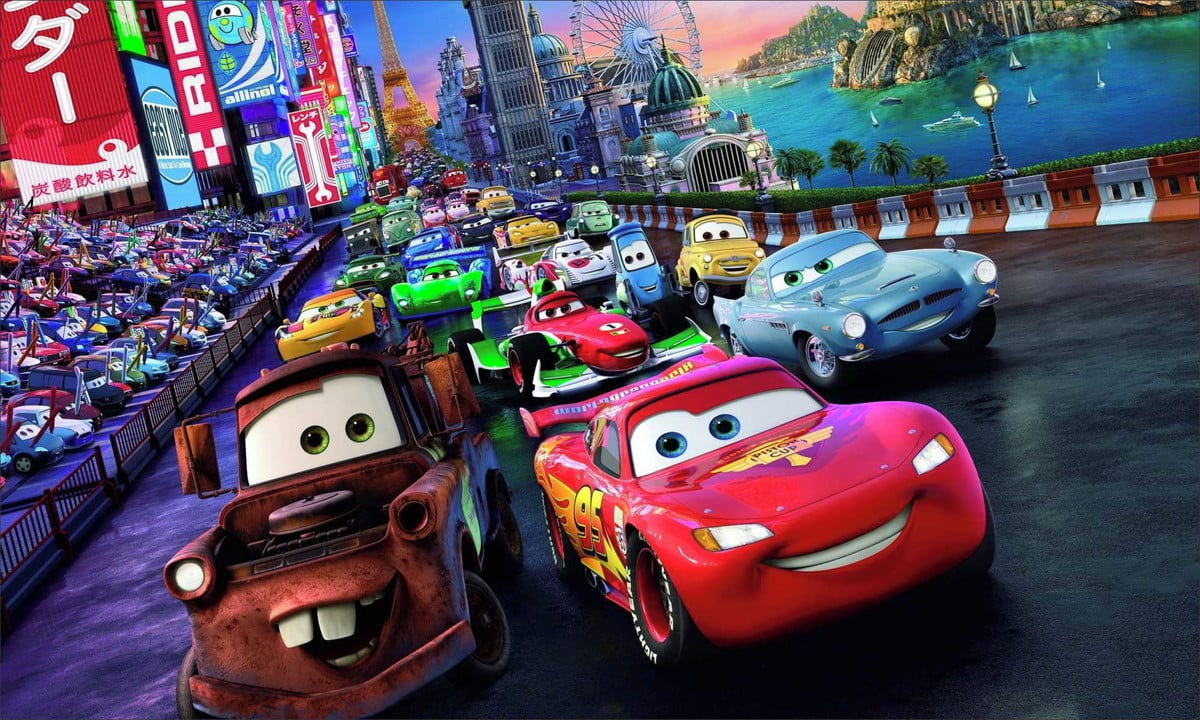
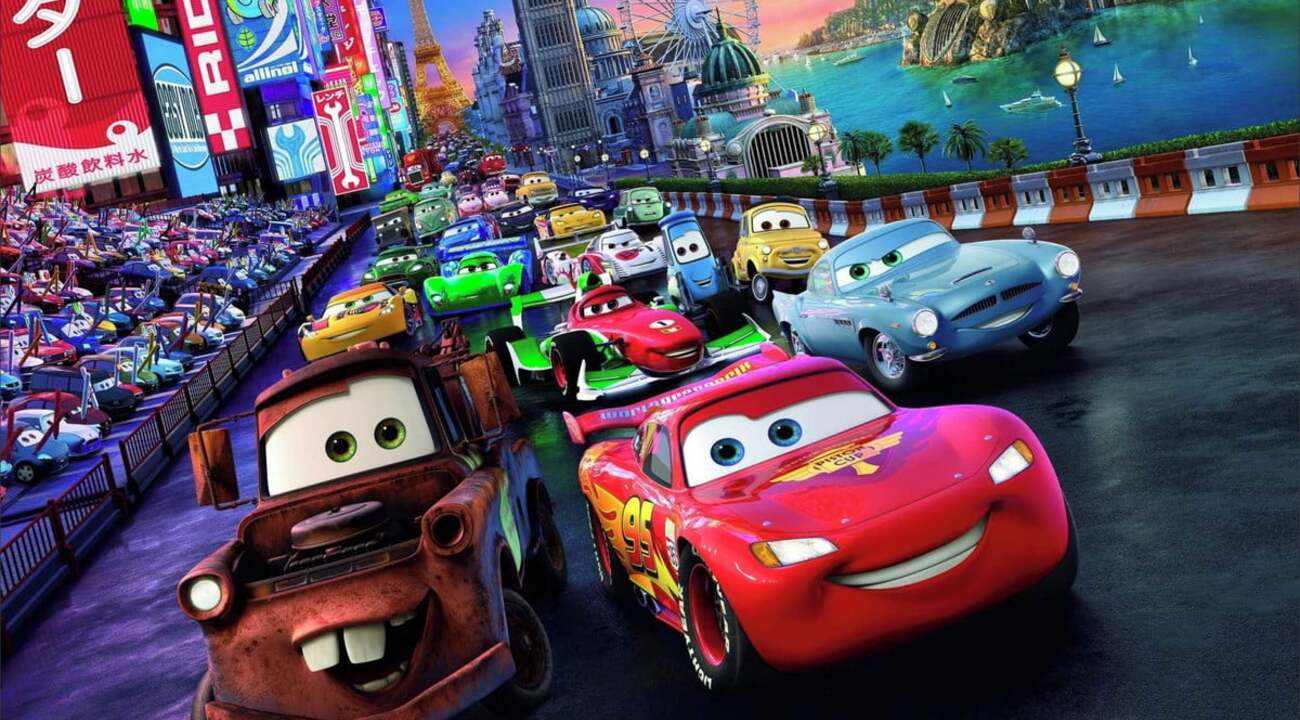
Carousel

diff --git a/public/index.html b/public/index.html
@@ -1,21 +1,24 @@
 <!DOCTYPE html>
 <html lang="en">
-  <head>
-    <meta charset="utf-8" />
-    <link rel="icon" href="%PUBLIC_URL%/favicon.ico" />
-    <meta name="viewport" content="width=device-width, initial-scale=1" />
-    <meta name="theme-color" content="#000000" />
-    <meta
-      name="description"
-      content="Web site created using create-react-app"
-    />
-    <link rel="apple-touch-icon" href="%PUBLIC_URL%/logo192.png" />
-    <!--
+
+<head>
+  <meta charset="utf-8" />
+  <link rel="icon" href="%PUBLIC_URL%/favicon.ico" />
+  <meta name="viewport" content="width=device-width, initial-scale=1" />
+  <meta name="theme-color" content="#000000" />
+  <meta name="description" content="Web site created using create-react-app" />
+  <link rel="apple-touch-icon" href="%PUBLIC_URL%/logo192.png" />
+  <!--
       manifest.json provides metadata used when your web app is installed on a
       user's mobile device or desktop. See https://developers.google.com/web/fundamentals/web-app-manifest/
     -->
-    <link rel="manifest" href="%PUBLIC_URL%/manifest.json" />
-    <!--
+  <link rel="manifest" href="%PUBLIC_URL%/manifest.json" />
+  <link rel="stylesheet" type="text/css" charset="UTF-8"
+    href="https://cdnjs.cloudflare.com/ajax/libs/slick-carousel/1.6.0/slick.min.css" />
+  <link rel="stylesheet" type="text/css"
+    href="https://cdnjs.cloudflare.com/ajax/libs/slick-carousel/1.6.0/slick-theme.min.css" />
+    
+  <!--
       Notice the use of %PUBLIC_URL% in the tags above.
       It will be replaced with the URL of the `public` folder during the build.
       Only files inside the `public` folder can be referenced from the HTML.
@@ -24,13 +27,14 @@
       work correctly both with client-side routing and a non-root public URL.
       Learn how to configure a non-root public URL by running `npm run build`.
     -->
-    <title>React App</title>
-    <script src="https://cdn.jsdelivr.net/npm/react-fontawesome@1.7.1/lib/index.min.js"></script>
-  </head>
-  <body>
-    <noscript>You need to enable JavaScript to run this app.</noscript>
-    <div id="root"></div>
-    <!--
+  <title>React App</title>
+  <script src="https://cdn.jsdelivr.net/npm/react-fontawesome@1.7.1/lib/index.min.js"></script>
+</head>
+
+<body>
+  <noscript>You need to enable JavaScript to run this app.</noscript>
+  <div id="root"></div>
+  <!--
       This HTML file is a template.
       If you open it directly in the browser, you will see an empty page.
 
@@ -40,5 +44,6 @@
       To begin the development, run `npm start` or `yarn start`.
       To create a production bundle, use `npm run build` or `yarn build`.
     -->
-  </body>
+</body>
+
 </html>

diff --git a/src/pages/HomePage.js b/src/pages/HomePage.js
@@ -1,34 +1,33 @@
 import { Carousel } from "react-bootstrap";
+import '../Styles/custom.css';
+import Slider from "react-slick";   
 
-    function HomePage() {
-        return (
-            <>
-            <Carousel className="container mt-3">
-                <Carousel.Item interval={5000}>
-                    <img src="../carros.jpg"/>
-                    <Carousel.Caption>
-                        <h3>Vingadores</h3>
-                        <a href="/filme" className="text-light">Clique aqui para ver o review.</a>
-                    </Carousel.Caption>
-                </Carousel.Item>
-                <Carousel.Item interval={5000}>
-                <img src="../banner5.png"/>
-                    <Carousel.Caption>
-                        <h3>    </h3>
-                        <p>Lorem ipsum dolor sit amet, consectetur adipiscing elit.</p>
-                    </Carousel.Caption>
-                </Carousel.Item>
-                <Carousel.Item interval={5000}>
-                <img src="../banner4.png"/>
-                    <Carousel.Caption>
-                        <h3>Third slide label</h3>
-                        <p>
-                            Praesent commodo cursus magna, vel scelerisque nisl consectetur.
-                        </p>
-                    </Carousel.Caption>
-                </Carousel.Item>
-            </Carousel>
-        </>
+function HomePage() {
+    const settings = {
+        dots: true,
+        lazyLoad: true,
+        infinite: true,
+        speed: 500,
+        slidesToShow: 1,
+        slidesToScroll: 1,
+        initialSlide: 2
+    };
+    return (
+        <div className="container mt-4">
+            <div className="slider-container">
+                <Slider {...settings}>
+                    <div>
+                        <img src={"../oppenheimer.jpg"} />
+                    </div>
+                    <div>
+                        <img src={"../carros.jpg"} />
+                    </div>
+                    <div>
+                        <img src={"../deadpool.jpeg"} />
+                    </div>
+                </Slider>
+            </div>
+        </div>
     )
 }
 

diff --git a/src/index.js b/src/index.js
@@ -4,6 +4,8 @@ import './index.css';
 import HomePage from './pages/HomePage';
 import BookPage from './pages/BookPage';
 import MoviePage from './pages/MoviePage';
+import "slick-carousel/slick/slick.css";
+import "slick-carousel/slick/slick-theme.css";
 import NavBarComponents from './components/NavBarComponents';
 import FooterComponents from './components/FooterComponet';
 import reportWebVitals from './reportWebVitals';
@@ -29,9 +31,9 @@ const router = createBrowserRouter([
 
 const root = ReactDOM.createRoot(document.getElementById('root'));
 root.render(
-  <React.StrictMode>
+  <React.StrictMode >
     <NavBarComponents/>
-    <RouterProvider router={router}/>
+    <RouterProvider  router={router}/>
   </React.StrictMode>
 );
 

diff --git a/src/Styles/custom.css b/src/Styles/custom.css
@@ -1,34 +1,3 @@
 .fundoNav{
-    background-color: #004AAD;
-}
-.home{
-    width: 100px;
-    text-align: center;
-    height: 40px;
-    
-}
-.home:hover{
-    background-color: #02285a;
-    width: 300px;
-    border-radius: 5px;
-}
-.livro{
-    width: 100px;
-    text-align: center;
-    height: 40px;
-}
-.livro:hover{   
-    background-color: #02285a;
-    width: 300px;
-    border-radius: 5px;
-}
-.filme{
-    width: 300px;
-    text-align: center;
-    height: 40px;
-}
-.filme:hover{
-    background-color: #02285a;
-    width: 100px;
-    border-radius: 5px;
+    background-color: #B71B1B;
 }

diff --git a/src/components/NavBarComponents.js b/src/components/NavBarComponents.js
@@ -30,8 +30,8 @@ function NavBarComponents() {
               <Col><Nav.Link className='text-light livro' href="/livro">Livros</Nav.Link></Col>
               <Col><Nav.Link className='text-light filme' href="/filme"> Filmes</Nav.Link></Col>
             </Row>
-          </Container>
-          <Button variant="outline-success">LOGIN</Button>
+          </Container>  
+          <Button variant="outline-light">LOGIN</Button>
         </Navbar.Collapse>
       </Container>
     </Navbar>
